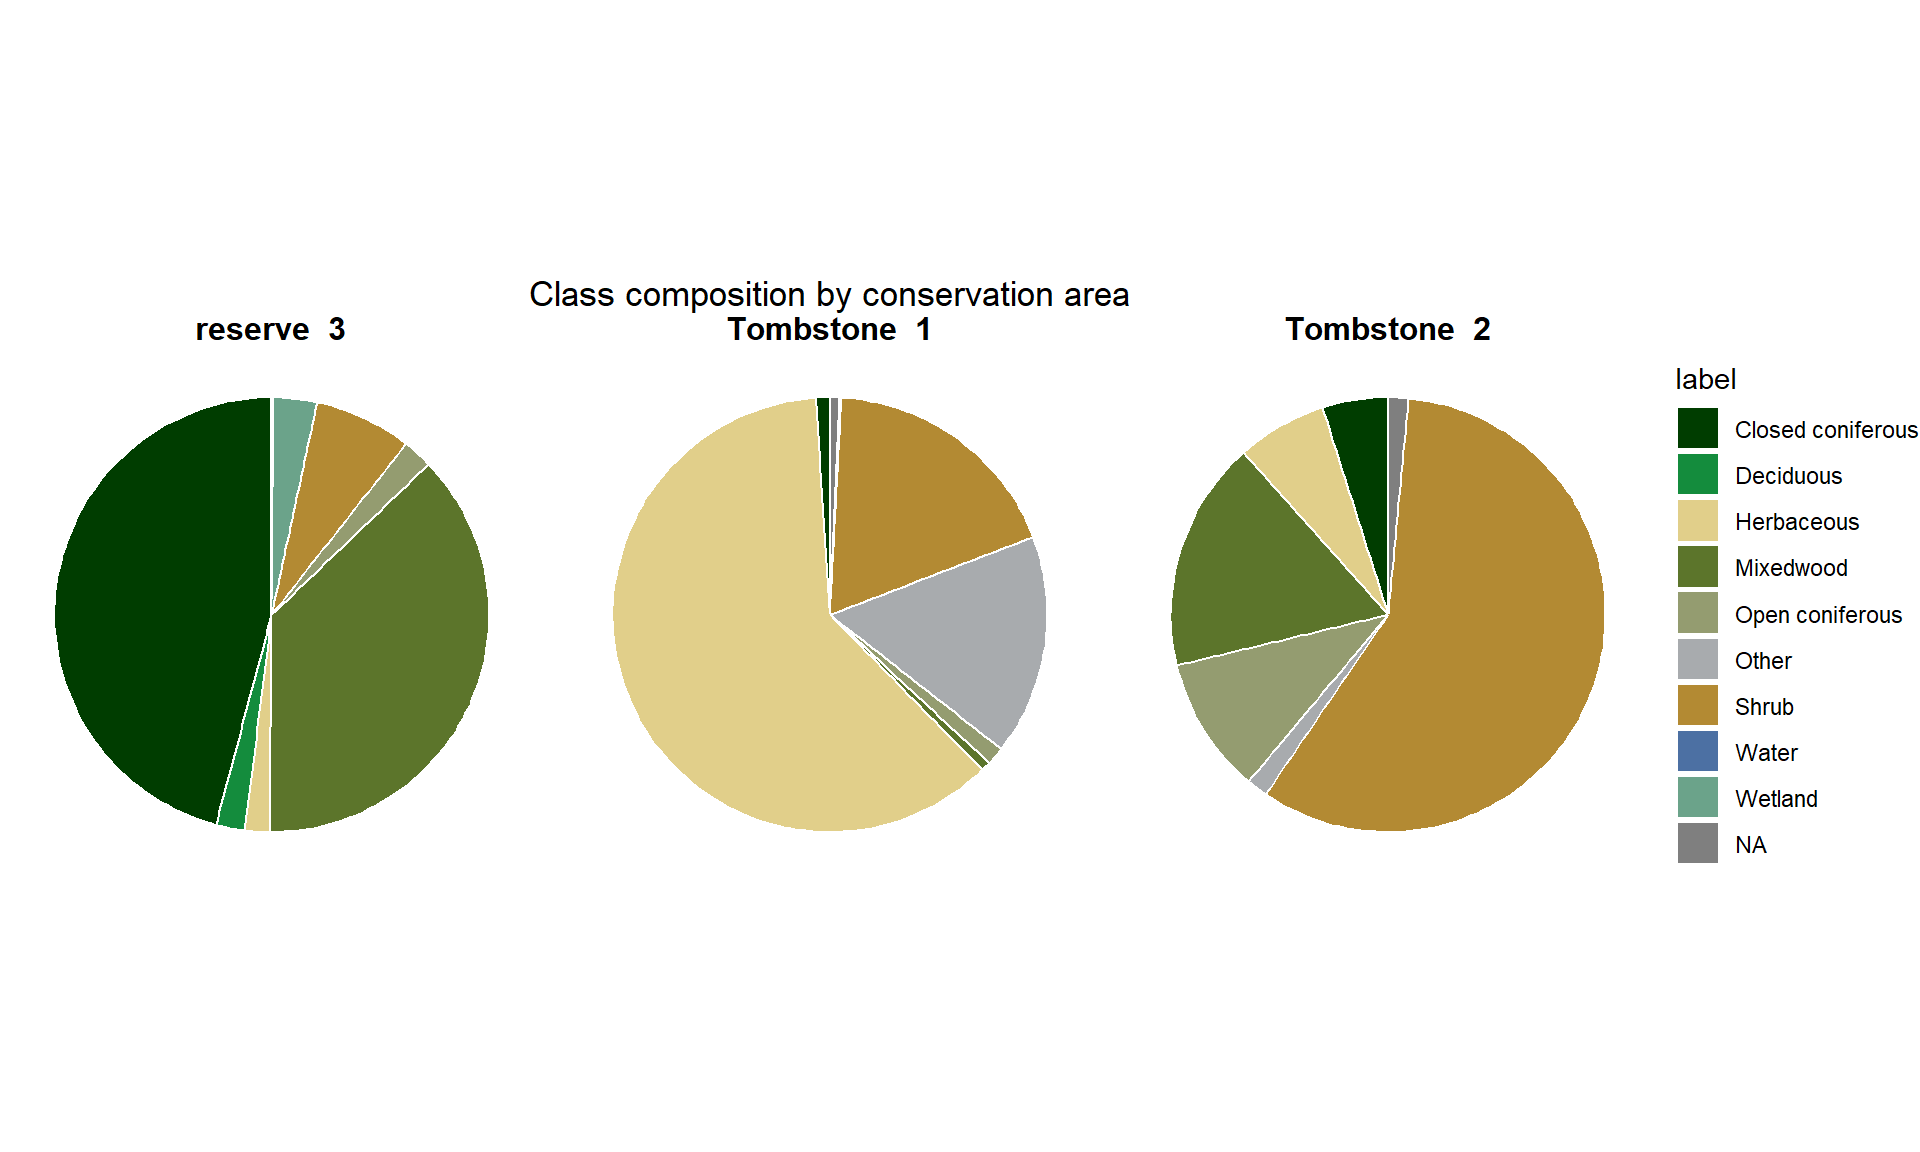
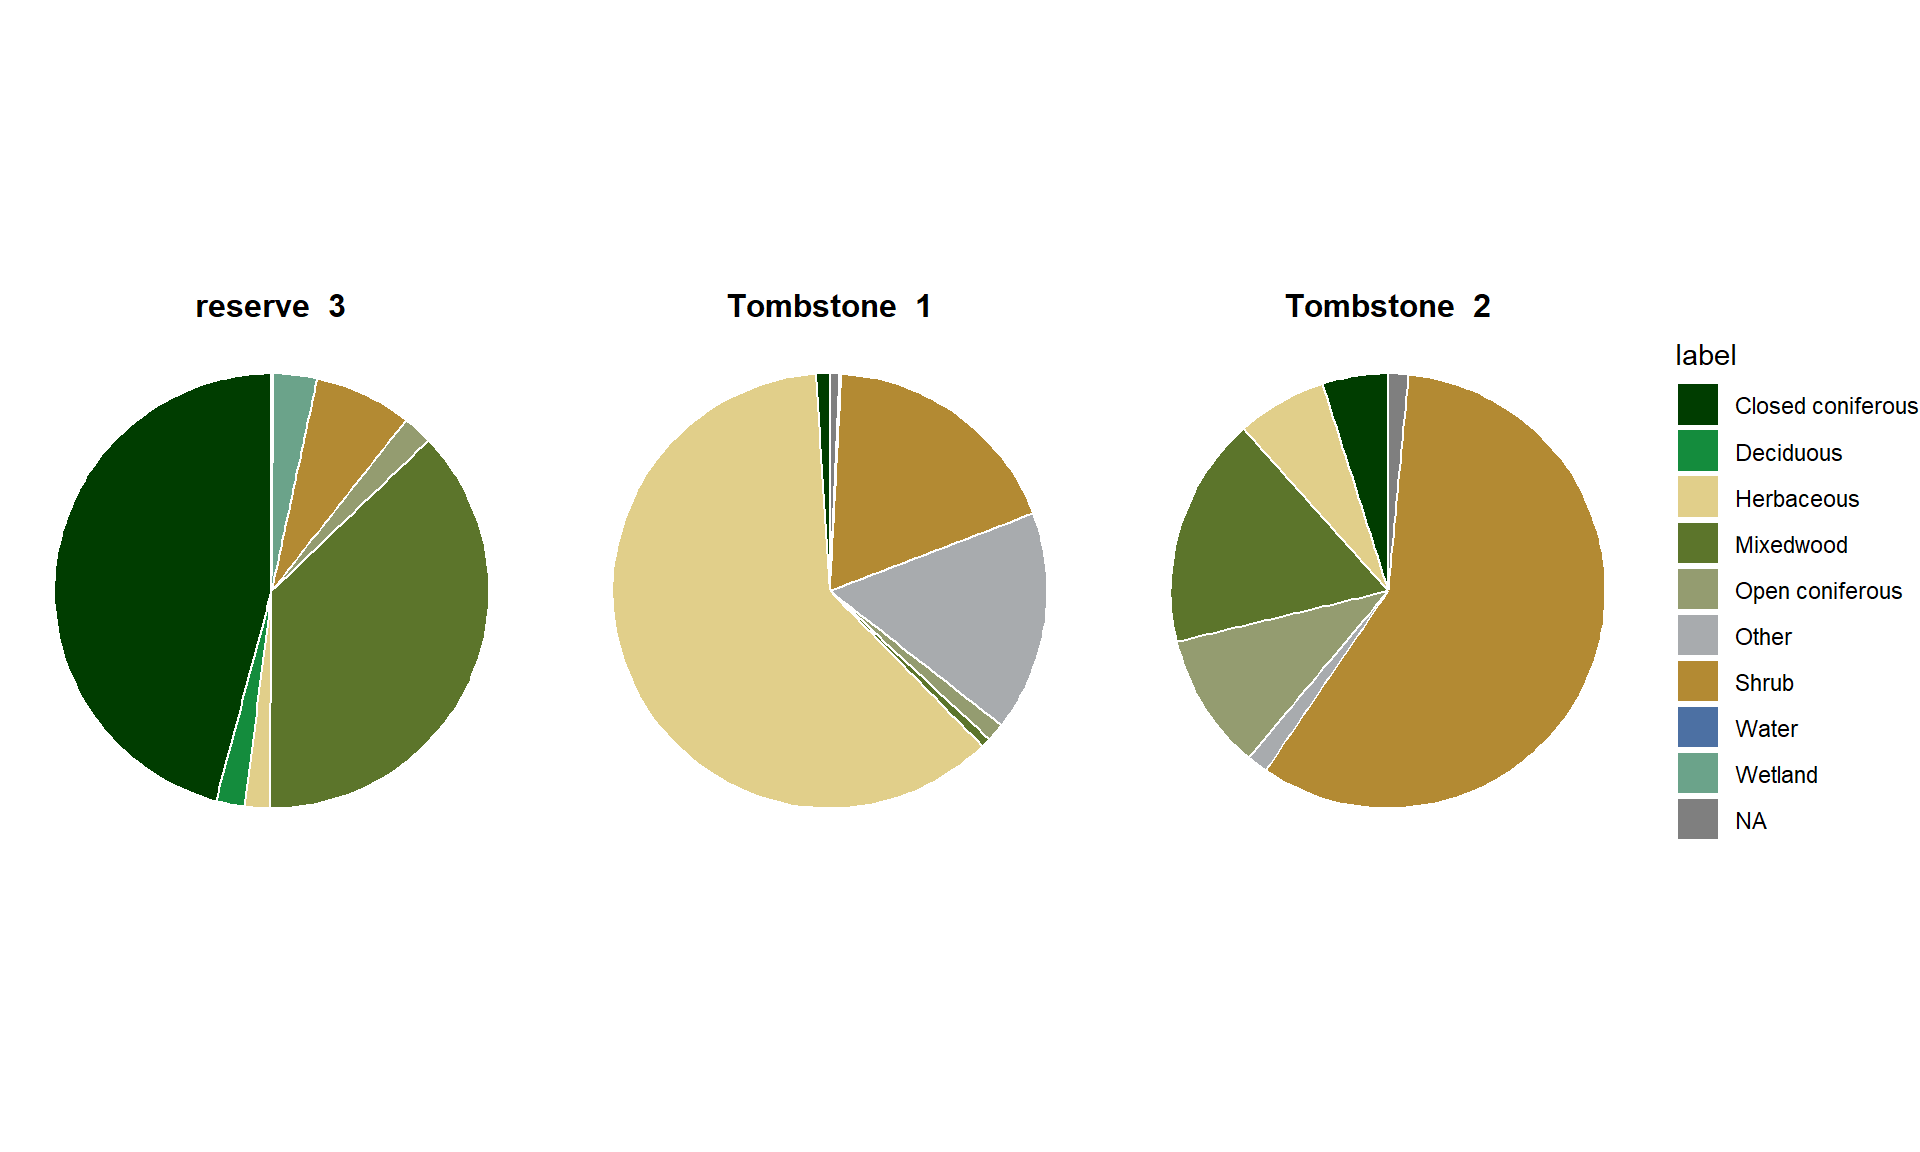
Update

diff --git a/docs/tools/evaluate_criteria_using_clip.html b/docs/tools/evaluate_criteria_using_clip.html
@@ -314,10 +314,9 @@ pre > code.sourceCode > span > a:first-child::before { text-decoration: underlin
 <span id="cb2-44"><a href="#cb2-44" aria-hidden="true" tabindex="-1"></a>  <span class="fu">coord_polar</span>(<span class="at">theta =</span> <span class="st">"y"</span>) <span class="sc">+</span></span>
 <span id="cb2-45"><a href="#cb2-45" aria-hidden="true" tabindex="-1"></a>  <span class="fu">facet_wrap</span>(<span class="sc">~</span> reserve) <span class="sc">+</span></span>
 <span id="cb2-46"><a href="#cb2-46" aria-hidden="true" tabindex="-1"></a>  <span class="fu">scale_fill_manual</span>(<span class="at">values =</span> <span class="fu">setNames</span>(results<span class="sc">$</span>hex, results<span class="sc">$</span>label)) <span class="sc">+</span></span>
-<span id="cb2-47"><a href="#cb2-47" aria-hidden="true" tabindex="-1"></a>  <span class="fu">labs</span>(<span class="at">title =</span> <span class="st">"Class composition by conservation area"</span>) <span class="sc">+</span></span>
-<span id="cb2-48"><a href="#cb2-48" aria-hidden="true" tabindex="-1"></a>  <span class="fu">theme_void</span>() <span class="sc">+</span></span>
-<span id="cb2-49"><a href="#cb2-49" aria-hidden="true" tabindex="-1"></a>  <span class="fu">theme</span>(<span class="at">strip.text =</span> <span class="fu">element_text</span>(<span class="at">size =</span> <span class="dv">12</span>, <span class="at">face =</span> <span class="st">"bold"</span>),</span>
-<span id="cb2-50"><a href="#cb2-50" aria-hidden="true" tabindex="-1"></a>        <span class="at">plot.title =</span> <span class="fu">element_text</span>(<span class="at">hjust =</span> <span class="fl">0.5</span>))</span></code><button title="Copy to Clipboard" class="code-copy-button"><i class="bi"></i></button></pre></div>
+<span id="cb2-47"><a href="#cb2-47" aria-hidden="true" tabindex="-1"></a>  <span class="fu">theme_void</span>() <span class="sc">+</span></span>
+<span id="cb2-48"><a href="#cb2-48" aria-hidden="true" tabindex="-1"></a>  <span class="fu">theme</span>(<span class="at">strip.text =</span> <span class="fu">element_text</span>(<span class="at">size =</span> <span class="dv">12</span>, <span class="at">face =</span> <span class="st">"bold"</span>),</span>
+<span id="cb2-49"><a href="#cb2-49" aria-hidden="true" tabindex="-1"></a>        <span class="at">plot.title =</span> <span class="fu">element_text</span>(<span class="at">hjust =</span> <span class="fl">0.5</span>))</span></code><button title="Copy to Clipboard" class="code-copy-button"><i class="bi"></i></button></pre></div>
 <div class="cell-output-display">
 <div class="quarto-figure quarto-figure-center">
 <figure class="figure">

diff --git a/docs/styles.css b/docs/styles.css
@@ -16,3 +16,7 @@
   background-color: #e68900;
   color: white !important;
 }
+
+.figure-caption {
+  text-align: center;
+}

diff --git a/styles.css b/styles.css
@@ -16,3 +16,7 @@
   background-color: #e68900;
   color: white !important;
 }
+
+.figure-caption {
+  text-align: center;
+}
